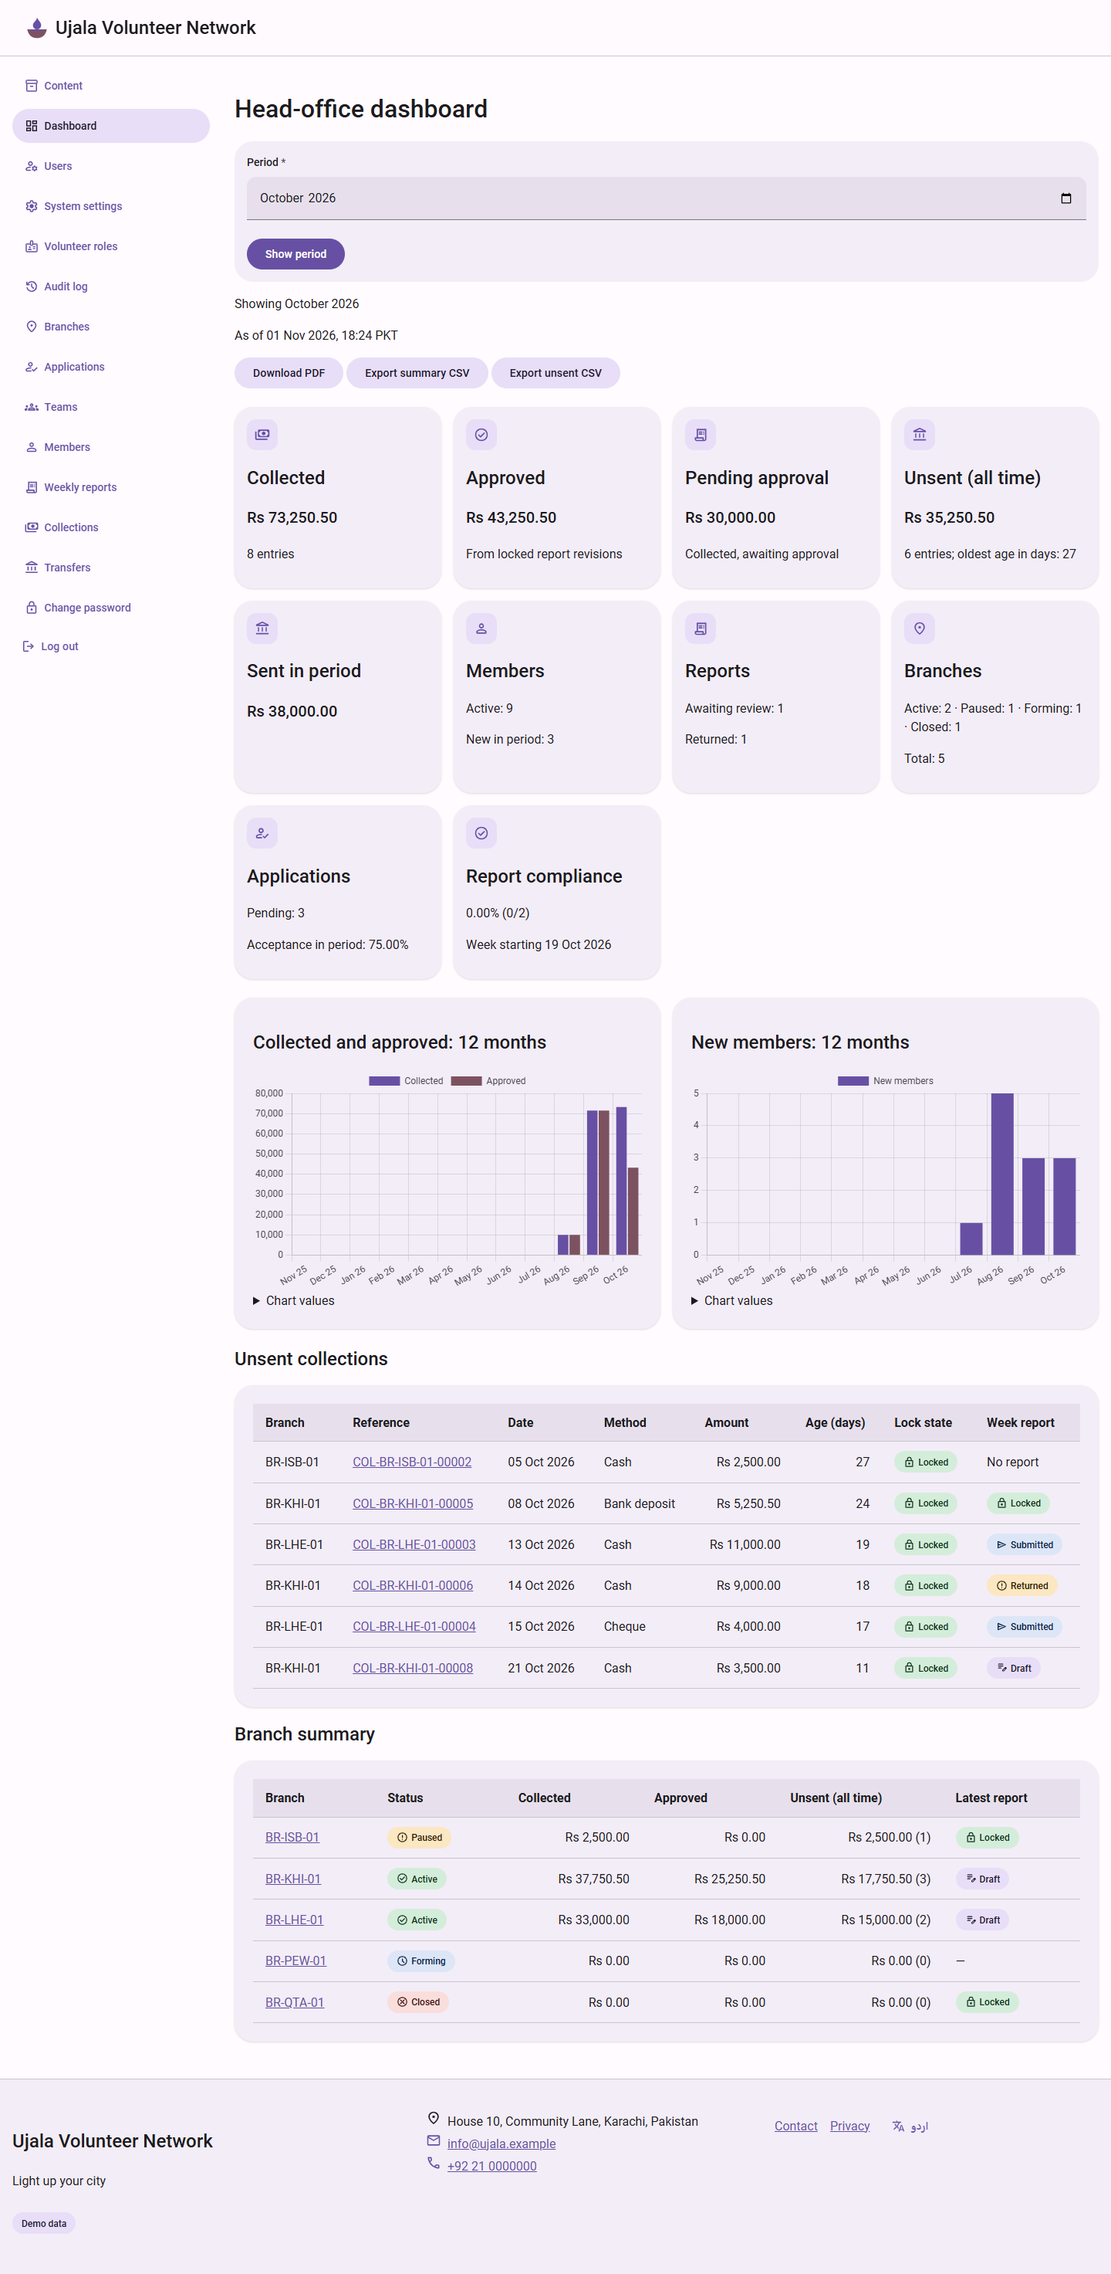
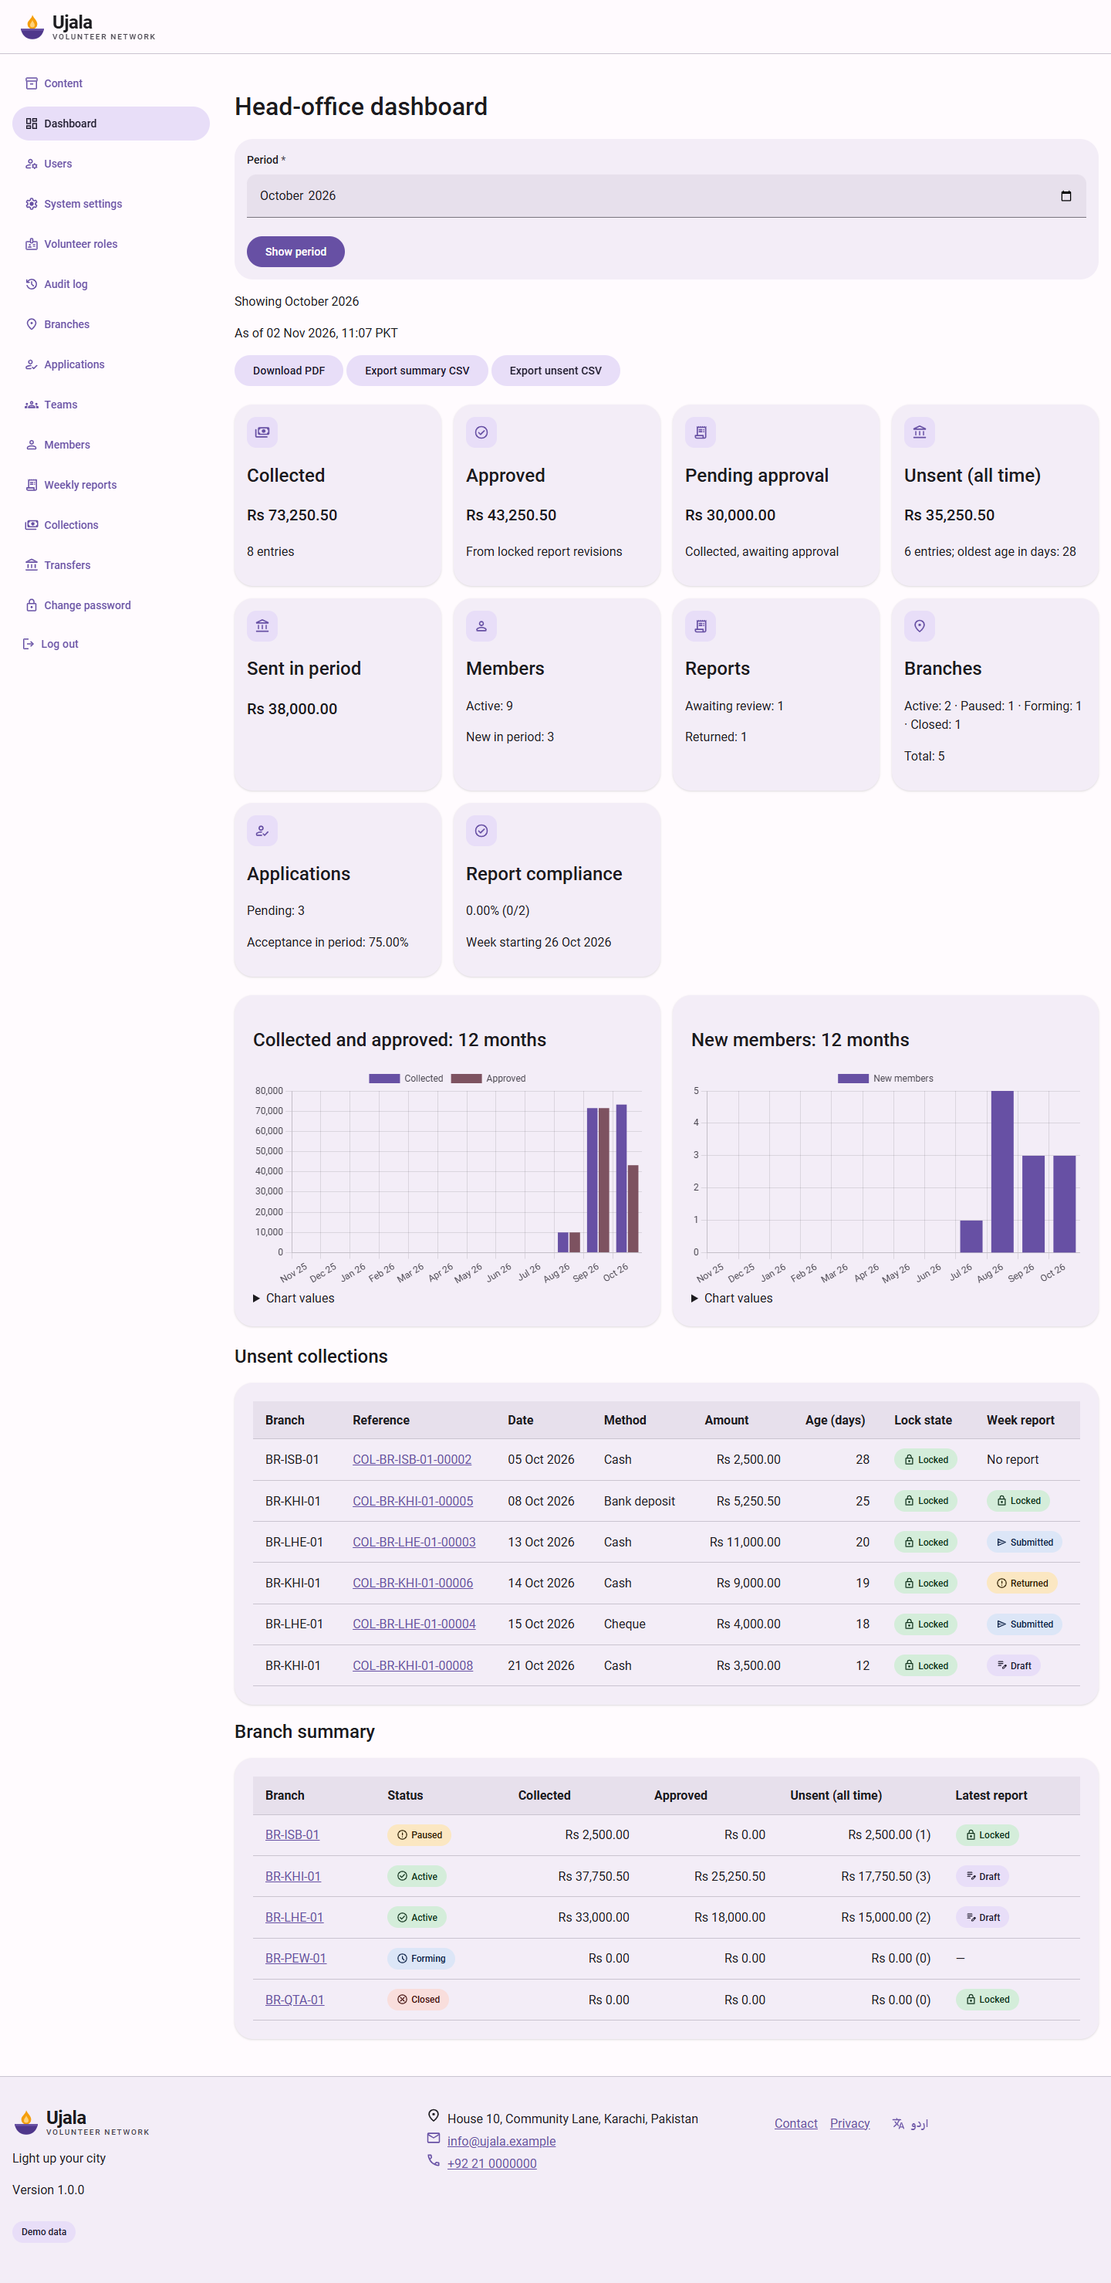
test(ui): verify night city design and refresh screenshots

diff --git a/docs/testing.md b/docs/testing.md
@@ -190,8 +190,9 @@ by Lighthouse.
 The earlier P12 regular-face alias still allowed timing-dependent heading rewraps
 in CI. F1 removes it. Roboto 500/700 use `font-display: optional`: a late heading
 font will not replace its fallback during that page load. Roboto 400 and the
-Urdu Naskh faces retain `swap`. English pages preload 400 and 500; Urdu preloads
-only Naskh, with no new font files.
+Urdu Naskh faces retain `swap`. At F1 verification, English preloaded 400 and 500;
+Urdu preloaded Naskh 400, with no new font files. The D6 amendment below supersedes
+that preload selection while retaining the display policies and CLS limit.
 
 The mobile font regression now checks 412 px and 360 px. At each width it creates
 six fresh browser contexts: five with both heading faces delayed 0.7 seconds,
@@ -346,3 +347,61 @@ planning row now matches the illustration used since D4.
 Lighthouse was not rerun for D5: these CSS changes affect staff pages or viewports
 768 px and wider, so the mobile public-page audits are unaffected. CI runs
 Lighthouse on push.
+
+## D6 night-city verification
+
+Step 1 passed 2,312 PostgreSQL tests, 0 failed, with 97.86% app coverage.
+Ruff, formatting, conventions, translation coverage (784 entries) and migration
+drift checks passed. The 217 focused server checks cover both languages, the
+4/3/1 impact display, two Home skylines, the four-link navigation, ticket dates,
+script boundaries and the nine new 4.5:1 text pairs. Corrected markup checks
+passed 127 cases. The new design/motion/width browser group passed 22 cases.
+
+The public accessibility preflight found a real brand-label mismatch: adjacent
+wordmark spans joined the English words without a space. One space between those
+spans fixes the accessible name without changing the grid layout. All sixteen
+EN/UR public accessibility cases then passed. The font-shift and hero-contrast
+preflight cases also passed without changing their thresholds.
+
+The older navigation-count, staff-script, hero-selector and brand-weight tests
+now match the amendment. Staff script checks allow exactly the external
+`busy.js`, preserving the ban on inline scripts; every public no-script assertion
+remains. The motion guard also checks nested `@supports` rules. The unused Home
+translation was removed after a source search; the replaced brand-full,
+brand-short, card--glass and volunteer_activism classes/icon are absent too.
+
+Screenshot capture uses Chrome at 1440×1000, DPR 1, reduced motion, fonts ready
+and a full lazy-image scroll. Only capture contexts bypass CSP and inject
+`.home-hero, .site-footer { position: static !important; }` so full-page images
+show every layer. Capture also sets `.home-hero { contain: layout; }`: making
+the hero static otherwise moves its absolute decorative layers to the main's
+containing block and causes capture-only overflow. This restores their bounds
+without changing production CSS. Normal E2E and Lighthouse retain production CSP
+and positioning.
+
+Step 2 passed 2,312 PostgreSQL tests, 0 failed, with 97.86% app coverage, and the
+complete E2E suite passed 58/58. This includes the unchanged 0.1 font-shift limit
+and 4.5:1 rendered hero-button contrast checks. The eight EN/UR viewports at 360,
+412, 768 and 1440 px passed, as did the sixteen existing desktop/mobile visual
+cases against the disposable seeded HTTP stack. The latter retain their control,
+navigation, RTL and overflow assertions and now check the bold lockup text.
+
+D6 mobile Lighthouse medians (three valid runs per page, after the heavy suites):
+
+| Page | Performance | Accessibility | Best Practices | SEO |
+| --- | ---: | ---: | ---: | ---: |
+| `/en/` | 99 | 100 | 100 | 100 |
+| `/ur/` | 99 | 100 | 100 | 100 |
+| `/en/get-involved/` | 99 | 100 | 100 | 100 |
+| `/en/branches/` | 100 | 100 | 100 | 100 |
+| `/en/events/` | 99 | 100 | 100 | 100 |
+
+All fifteen individual audits met 95 in every category. No window-path reduction
+was needed. Only the localhost HTTPS audit was skipped; live certificate checks
+remain separate. Lighthouse collection settings and CI thresholds were unchanged.
+
+All four EN/UR home/dashboard screenshots were retaken from the restored
+disposable authored seed and individually inspected. The skylines, arches and
+ticket are visible, and no dashboard column is clipped. Age/compliance indicators
+use the capture date, 2 November 2026. Ruff, formatting and conventions passed;
+the final documentation-link check passed all 62 cases.

diff --git a/docs/design-system.md b/docs/design-system.md
@@ -1,10 +1,10 @@
 # ShipLens design system
 
-The source of truth is [the Material You specification](planning/24-design-system.md). Use its light colour roles and components when changing a template. The public site can use soft radial shapes; staff data pages stay plain and tonal.
+The source of truth is [the Material You specification](planning/24-design-system.md), including the 2 November night-city amendment. Public pages add night/amber roles, skylines, arches and layered sections; staff data pages keep the light, plain tonal design. The brand lockup and real-wait indicators are shared.
 
 ## Use the styles
 
-`base.html` loads `tokens.css`, `base.css`, `components.css`, then `layout.css` (and `urdu.css` on Urdu pages). Use a token such as `var(--md-primary)` or `var(--md-s4)` instead of a new colour or spacing value. Typography and the keyboard focus ring come from `base.css`. Roboto and Noto Naskh Arabic are served locally from `static/fonts/`.
+`base.html` loads `tokens.css`, `base.css`, `components.css`, `icons.css`, then `layout.css`. Public pages additionally load `public.css`; Urdu pages then load `urdu.css`. Staff pages omit `public.css`. Use a token such as `var(--md-primary)` or `var(--md-s4)` instead of a new colour or spacing value. Typography and the keyboard focus ring come from `base.css`. Roboto and Noto Naskh Arabic are served locally from `static/fonts/`; see the [current preload policy](performance.md).
 
 Use the existing classes in `components.css`: `.btn` plus a variant (`.btn--filled`, `.btn--tonal`, `.btn--outlined`, `.btn--text`, or `.btn--error`), `.card`, `.chip`, `.status-badge`, `.data-table`, `.filter-panel`, `.notice`, and `.empty-state`. Status badges take a `data-status` value matching the model status; the CSS supplies the tonal colour and icon. Keep their visible text. Wrap tables in `.table-container.card`, give each numeric cell `.numeric`, and wrap displayed numbers or codes in `<bdi>`.
 
@@ -23,6 +23,6 @@ Run `python bin/check_conventions.py` and the full pytest suite after CSS or tem
 
 ## Lighthouse
 
-Use the production Docker image and an empty database. Audit `/en/`, `/ur/`, and `/en/get-involved/` in mobile mode, checking Performance, Accessibility, Best Practices, and SEO. Production redirects plain HTTP to HTTPS; when testing on localhost, send `X-Forwarded-Proto: https` to simulate the trusted proxy. The [design specification](planning/24-design-system.md#8-acceptance-for-the-design-pr) sets a minimum score of 90 in each category.
+Use the production Docker image with a disposable authored seed and the five configured mobile pages, three valid runs each. D6 targets median scores of at least 95 in Performance, Accessibility, Best Practices and SEO; the existing CI baseline remains 90. The local proxy supplies the trusted TLS header for all requests, including `robots.txt`. See [testing](testing.md#d6-night-city-verification) for current results.
 
-The D1 check on 28 October 2026 used Lighthouse 13.6.0 and a fresh Docker image containing the current source and collected static files on the existing production runtime, with an empty PostgreSQL database. Scores (Performance / Accessibility / Best Practices / SEO) were **100 / 100 / 96 / 91** on each of the three routes. A full default Dockerfile rebuild was attempted but stopped while the package registry was delivering wheels at about 12–25 KB/s; rerun that build before release. The local HTTP proxy simulation causes Lighthouse's separate `robots.txt` fetch to time out, which accounts for the remaining SEO deduction.
+Historical D1 evidence (28 October 2026, Lighthouse 13.6.0, empty PostgreSQL database): **100 / 100 / 96 / 91** on each of the three routes then audited. That run used a rebuilt application layer; its attempted full dependency rebuild stopped during slow package downloads. The old proxy also timed out on Lighthouse's separate `robots.txt` request. Later work fixed the proxy, and D6 uses a complete default Docker build and the seeded five-page checks above.

diff --git a/docs/planning/14-performance-a11y-seo.md b/docs/planning/14-performance-a11y-seo.md
@@ -2,14 +2,14 @@
 
 ## 1. Pages measured (mobile preset, LHCI on CI + manual PageSpeed on live)
 `/en/` · `/ur/` · `/en/get-involved/` (form) · `/en/branches/` · `/en/events/` — plus spot checks of `/ur/get-involved/` and `/en/programs/`.
-**Targets:** ≥ 90 in Performance, Accessibility, Best Practices, SEO on every measured page. Staff pages: not scored by judges, but kept light (same CSS, Chart.js only on dashboard).
+**Targets:** ≥ 90 in Performance, Accessibility, Best Practices, SEO on every measured page. D6's verification target is ≥ 95. Staff pages share the core CSS, load busy.js for forms and Chart.js only on financial dashboards; they omit public.css.
 
 ## 2. Performance tactics
 | Tactic | Detail |
 |---|---|
-| Zero JS on public pages | No framework; language switcher is a plain form; mobile nav via `<details>/<summary>`. Only the form page loads a ~1 KB script for live character counters (optional). |
-| Small CSS layers | MD3 tokens/base/components/layout, loaded in order and compressed; hashed filename via WhiteNoise manifest; `Cache-Control: max-age=31536000, immutable`. Critical CSS inlining unnecessary at this size. |
-| Fonts | MD3 (plan 24) uses self-hosted Roboto for EN and subset woff2 Naskh for UR; `swap` for regular Roboto/Naskh and `optional` for Roboto 500/700; EN preloads Roboto 400/500, UR only regular Naskh (F1). Naskh loads only on `/ur/`. |
+| Zero JS on public pages | No framework or counter script; language switcher is a plain form; mobile nav via `<details>/<summary>`. busy.js is reserved for staff screens and login. |
+| Small CSS layers | MD3 tokens/base/components/icons/layout, then public.css on public pages and urdu.css on Urdu pages; hashed filename via WhiteNoise manifest; `Cache-Control: max-age=31536000, immutable`. Critical CSS inlining unnecessary at this size. |
+| Fonts | MD3 (plan 24) uses self-hosted Roboto for EN and subset woff2 Naskh for UR; `swap` for regular Roboto/Naskh and `optional` for Roboto 500/700. Under the 2026-11-02 amendment, EN preloads Roboto 400/500/700 and UR preloads Naskh 400/700 for the bold lockup/headings. Naskh loads only on `/ur/`. |
 | Images | Few, pre-optimised at build time: AVIF/WebP + JPEG fallback via `<picture>`, explicit `width`/`height` (no CLS), `loading="lazy"` below the fold, `fetchpriority="high"` for hero. Hero ≤ 60 KB. SVG logo inline. |
 | Server | gunicorn 2 workers; DB queries per public page ≤ 6 (`select_related`, `prefetch_related`); `django-debug-toolbar` locally to check N+1. Template fragment cache for public CMS blocks (60 s, invalidated on publish) — optional. |
 | Compression | WhiteNoise brotli/gzip for static; `GZipMiddleware` **off** (BREACH risk with CSRF tokens on HTML) — HTML is small anyway. |

diff --git a/docs/public-website.md b/docs/public-website.md
@@ -4,6 +4,29 @@ The public organisation is Ujala Volunteer Network (ASSUMPTION-24). The staff
 application retains the ShipLens product name. Contact details and sample stories
 are fictional. Public impact numbers are authored CMS copy, never live finance data.
 
+## Night-city presentation
+
+The [2 November design amendment](planning/24-design-system.md) adds night bands,
+an original skyline and diya lockup, artwork in arches and a featured-event ticket
+with its day and localized month/year. Home has two skylines: the opening night
+and the lit-city call to action. Its impact copy separates the existing 4/3/1
+figures for display; these are authored facts, not dashboard queries.
+
+The brand is the Home link. The main navigation has About, Programs, Branches and
+Events, with language switching, an accessible Log in icon and Get involved beside
+it. The native mobile menu includes Get involved. On suitable desktops the hero
+stays under the app bar while the sheet scrolls over it; the footer is revealed
+underneath. CSS scroll timelines are optional enhancements. Reduced motion leaves
+the skyline visible without window or arrival animations; the hero heading never
+animates.
+
+Public content pages load `public.css` and no scripts, including on the volunteer
+form and when a staff user visits. Staff screens omit `public.css` and load the
+external `busy.js`; the login page also loads it. Submission indicators preserve
+the button's name/value and enabled state. Dashboard indicators are removed after
+charts draw. Download links have no indicator because the page cannot observe a
+download's completion. [Design guidance](design-system.md) covers the shared rules.
+
 ## Publishing
 
 Super Admins and Content Editors create a working copy in Content. English and Urdu
@@ -15,7 +38,8 @@ archive removes content from public selectors; restore returns it to Draft.
 Editing published content changes only its working translations and metadata.
 Public pages, metadata and sitemap slugs use `published_snapshot` until the next
 publish. Markdown is sanitized when saved and again in `render_cms`, the single
-safe-HTML boundary. Illustrations are four original static SVGs; uploads are absent.
+safe-HTML boundary. The illustration picker includes the four original SVGs and
+the retained unDraw choices; uploads are absent. See [credits](credits.md).
 The optional model branch association is not bound from editor form input.
 
 `sample_data/content.csv` is validated by the same header reader as the financial

diff --git a/docs/performance.md b/docs/performance.md
@@ -23,9 +23,9 @@ latency or Lighthouse scores.
 | Images | 3,357 |
 | **Total including images** | **107,331** |
 
-There are no script elements on public pages. Only the active language's regular
-font is preloaded: Roboto for English, Noto Naskh Arabic for Urdu. Other weights
-load when used. Existing CMS SVG illustrations are already minified, below the
+There are no script elements on public content pages. At this P13 measurement,
+only the active language's regular font was preloaded. The current policy is
+described below. Existing CMS SVG illustrations are already minified, below the
 60 KB hero budget, and rendered images have explicit width and height.
 
 ## Query budgets
@@ -63,7 +63,14 @@ Run the query tests with the normal PostgreSQL test settings. Asset or content
 changes can change the byte totals; query budgets remain regression assertions.
 
 
-F1 supersedes the preload policy measured above: English now preloads Roboto 400
-and 500, with 500/700 set to `font-display: optional` to prevent late heading
-swaps. Urdu still preloads only Naskh. The earlier byte measurements are retained
-as dated P13 evidence and are not measurements of this updated font policy.
+F1 changed Roboto 500/700 to `font-display: optional` to prevent late heading swaps.
+Roboto 400 and both Naskh weights retain `swap`; the regular-face fallback alias
+remains removed.
+
+The D6 amendment preloads Roboto 400/500/700 on English pages and Noto Naskh Arabic
+400/700 on Urdu pages, because the brand lockup and public headings use bold.
+No font files were added. The earlier byte measurements remain dated P13 evidence,
+not measurements of the current policy. Public window lighting and scroll effects
+use only CSS opacity/transform and respect reduced motion; public pages load no
+loader script. [D6 verification](testing.md#d6-night-city-verification) records the
+current browser and Lighthouse checks.

diff --git a/docs/planning/12-i18n-rtl.md b/docs/planning/12-i18n-rtl.md
@@ -28,8 +28,8 @@ Workflow: `makemessages -l ur --ignore=venv` → translate → `compilemessages`
 ## 5. Typography and font cost
 | Locale | Font | Delivery |
 |---|---|---|
-| en | System font stack (`system-ui, -apple-system, Segoe UI, Roboto, sans-serif`) | 0 KB |
-| ur | **Noto Naskh Arabic** (OFL) regular + bold, subset to Arabic + Urdu ranges (U+0600–06FF, U+0750–077F, U+FB50–FDFF, U+FE70–FEFF, digits, punctuation) with `pyftsubset`, woff2 | ~2 × 45–70 KB; loaded **only on `/ur/` pages** via a locale-specific stylesheet; `font-display: swap`; `<link rel="preload">` for regular weight only |
+| en | Self-hosted **Roboto** (Apache-2.0), Latin WOFF2 400/500/700 | All three weights preloaded under plan 24's 2026-11-02 amendment; 400 uses `swap`, 500/700 use `optional` (F1). |
+| ur | **Noto Naskh Arabic** (OFL) regular + bold, subset to Arabic + Urdu ranges (U+0600–06FF, U+0750–077F, U+FB50–FDFF, U+FE70–FEFF, digits, punctuation) with `pyftsubset`, woff2 | ~2 × 45–70 KB; loaded **only on `/ur/` pages** via a locale-specific stylesheet; `font-display: swap`; both weights preloaded under plan 24's 2026-11-02 amendment. |
 - Urdu line-height 1.8, base size 1.0625rem (Urdu glyphs read small).
 - OPT-07: Noto Nastaliq Urdu for headings only.
 

diff --git a/CHANGELOG.md b/CHANGELOG.md
@@ -25,6 +25,7 @@ and uses [Semantic Versioning](https://semver.org/spec/v2.0.0.html).
 
 ### Changed
 
+- Night city public design, brand lockup and loader ([#29])
 - Material You design system adapted to handwritten CSS ([#11]).
 - Illustrations, distinct icons, motion and staff layout refinements ([#27]).
 
@@ -60,3 +61,4 @@ and uses [Semantic Versioning](https://semver.org/spec/v2.0.0.html).
 [#25]: https://github.com/bilal-rauf-dev/shiplens-branch-platform/pull/25
 [#26]: https://github.com/bilal-rauf-dev/shiplens-branch-platform/pull/26
 [#27]: https://github.com/bilal-rauf-dev/shiplens-branch-platform/pull/27
+[#29]: https://github.com/bilal-rauf-dev/shiplens-branch-platform/pull/29

diff --git a/README.md b/README.md
@@ -89,6 +89,10 @@ The IDs below match the deliverables in [the compliance plan](docs/planning/01-c
 
 **Public home**
 
+The night-city home pairs an original skyline and diya with volunteer artwork,
+large impact numbers and an event ticket. Sticky layers and window lighting use
+CSS; public content pages still ship no scripts. See the [public-site guide](docs/public-website.md).
+
 | English | اردو |
 | --- | --- |
 | ![English public home with volunteer illustrations](docs/screenshots/home-en.png) | ![Urdu public home with mirrored navigation and local Naskh typography](docs/screenshots/home-ur.png) |
